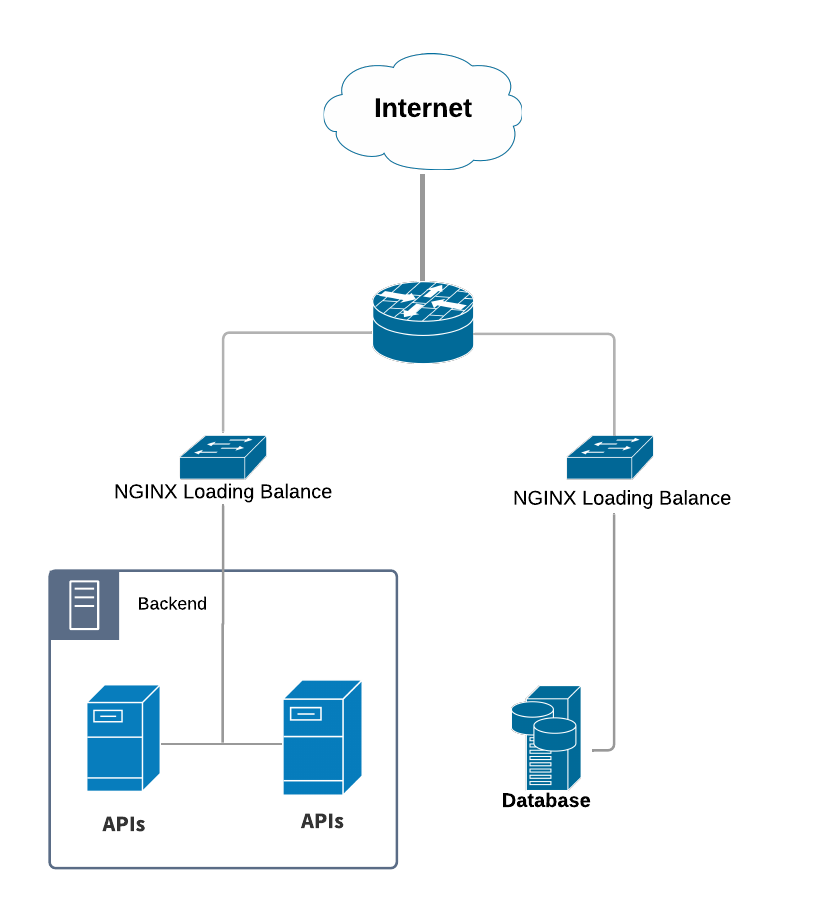
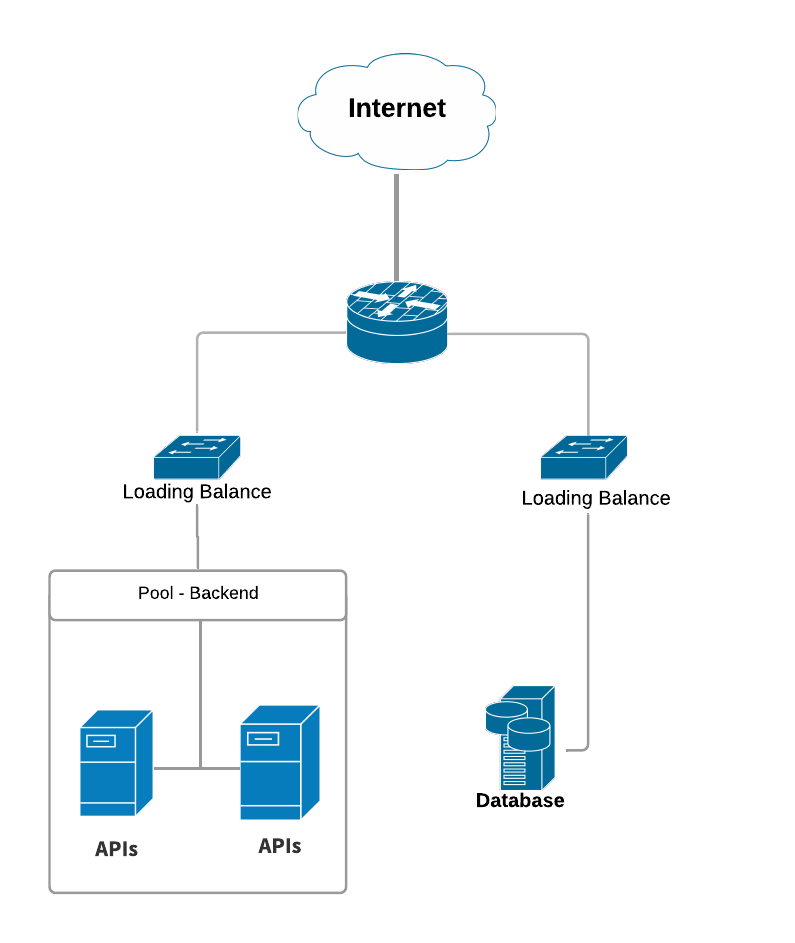
update readme for autoscaling and infra

Changed region(s): [[0.0604, 0.061, 0.9057, 0.9455], [0.0906, 0.9455, 0.4226, 0.976], [0.483, 0.0305, 0.5434, 0.061]]

diff --git a/readme.md b/readme.md
@@ -123,17 +123,24 @@ Cria um novo post, mas adicionando um novo autor.
 }
 ```
 
-Na hora de inserir um novo post o método checa se existe uma *key* chamada **author_id** se ela for encontrada no corpo da requisiçao, o método não checa os outros dados do autor e pega o valor dessa *key* como sendo o próprio autor do post.
+Na hora de inserir um novo post o método checa se existe uma *key* chamada **author_id** se ela for encontrada no corpo da requisição, o método não checa os outros dados do autor e pega o valor dessa *key* como sendo o próprio autor do post.
 
 ## Infra
 
 <img src="documentation/infra.png">
 
-Nossa API pode ser colocada em produção, rodando em 2 máquinas ou mais, como mostrado na figura acima. Quando nosso Loading Balance recebe a requisição tem a capacidade de busca em 2 endereços para melhorar a latência e balancear a carga.
+### APIs e Loading Balance
 
-O **Loading Balance** pode usar o NGINX para escrever suas regras de busca nas máquinas.
+Teremos um **Loading Balance** recebendo requisições HTTP e distribuindo as requisições via **NGINX** para um pool escalável de máquinas.
+
+Nossa API pode ser colocada em produção, rodando em 2 máquinas ou mais, como mostrado na figura acima. Quando nosso Loading Balance receber as requisições ele pode buscar em 2 endereços (máquinas), para melhorar a latência e balancear a carga. Nosso trigger para autoscaling será utilização de CPU, que através de ferramentas podemos obter diversas informações dos recursos que estão sendo utilizados, e com isso tomar alguma ação, como por exemplo: Criar  alarmes que serão ativados quando a utilização de CPU chegar em determinado percentual.
+
+### Banco de dados
+
+Nossas APIs se comportando como um microservice, cada uma terá que ter seu prórpio banco de dados.
 
 Nosso banco de dados também pode ser colocado em uma máquina separada, e fazer sua propria réplica caso seja necessário.
+
 
 ## Tecnologias e Ferramanetas Usadas
 
